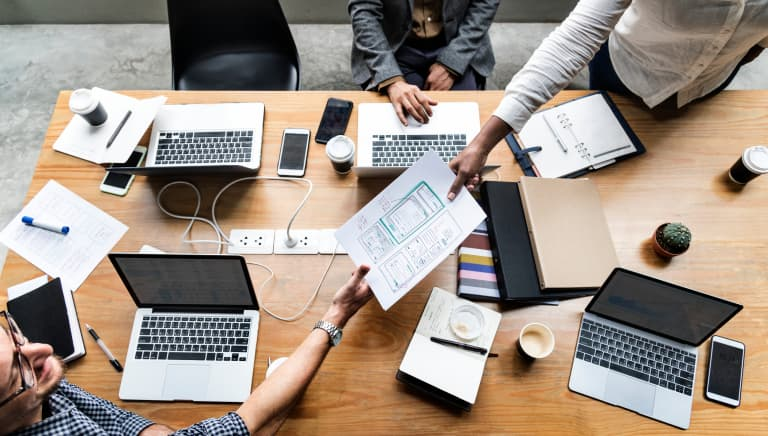
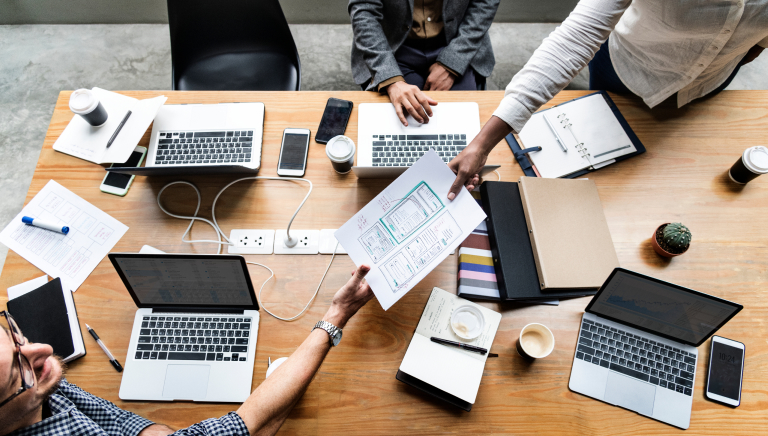
add markup

diff --git a/index.html b/index.html
@@ -549,90 +549,88 @@
       </section>
     </main>
     <footer class="footer" id="footer">
-      <div class="container">
-        <div class="footer-wrapper">
-          <div class="footer-content-wrapper">
-            <a class="logo footer-logo" href="./index.html"
-              ><span class="accent">Web</span>Studio</a
-            >
-            <p class="footer-slogan">
-              Increase the flow of customers and sales for your business with
-              digital marketing & growth solutions.
-            </p>
-          </div>
+      <div class="container footer-container">
+        <div class="footer-content-wrapper">
+          <a class="logo footer-logo" href="./index.html"
+            ><span class="accent">Web</span>Studio</a
+          >
+          <p class="footer-slogan">
+            Increase the flow of customers and sales for your business with
+            digital marketing & growth solutions.
+          </p>
+        </div>
 
-          <div class="footer-socials-wrapper">
-            <p class="footer-socials-caption">Social media</p>
-            <ul class="footer-socials">
-              <li class="footer-socials-item">
-                <a
-                  class="footer-socials-link"
-                  href="https://instagram.com"
-                  target="_blank"
-                  rel="noopener noreferrer"
-                >
-                  <svg class="footer-socials-icon" width="24" height="24">
-                    <use href="./images/icons.svg#instagram"></use>
-                  </svg>
-                </a>
-              </li>
-              <li class="footer-socials-item">
-                <a
-                  class="footer-socials-link"
-                  href="https://twitter.com"
-                  target="_blank"
-                  rel="noopener noreferrer"
-                >
-                  <svg class="footer-socials-icon" width="24" height="24">
-                    <use href="./images/icons.svg#twitter"></use>
-                  </svg>
-                </a>
-              </li>
-              <li class="footer-socials-item">
-                <a
-                  class="footer-socials-link"
-                  href="https://facebook.com"
-                  target="_blank"
-                  rel="noopener noreferrer"
-                >
-                  <svg class="footer-socials-icon" width="24" height="24">
-                    <use href="./images/icons.svg#facebook"></use>
-                  </svg>
-                </a>
-              </li>
-              <li class="footer-socials-item">
-                <a
-                  class="footer-socials-link"
-                  href="https://linkedin.com"
-                  target="_blank"
-                  rel="noopener noreferrer"
-                >
-                  <svg class="footer-socials-icon" width="24" height="24">
-                    <use href="./images/icons.svg#linkedin"></use>
-                  </svg>
-                </a>
-              </li>
-            </ul>
-          </div>
-
-          <div class="footer-subscribe">
-            <p class="footer-subscribe-caption">Subscribe</p>
-            <form class="footer-form" name="subscription">
-              <input
-                class="footer-form-input"
-                type="email"
-                name="user_subscription"
-                placeholder="E-mail"
-                aria-label="email"
-              />
-              <button class="btn btn-filled btn-footer" type="submit">
-                Subscribe
-                <svg class="footer-subscribe-icon" width="24" height="24">
-                  <use href="./images/icons.svg#send"></use>
+        <div class="footer-socials-wrapper">
+          <p class="footer-socials-caption">Social media</p>
+          <ul class="footer-socials">
+            <li class="footer-socials-item">
+              <a
+                class="footer-socials-link"
+                href="https://instagram.com"
+                target="_blank"
+                rel="noopener noreferrer"
+              >
+                <svg class="footer-socials-icon" width="24" height="24">
+                  <use href="./images/icons.svg#instagram"></use>
                 </svg>
-              </button>
-            </form>
-          </div>
+              </a>
+            </li>
+            <li class="footer-socials-item">
+              <a
+                class="footer-socials-link"
+                href="https://twitter.com"
+                target="_blank"
+                rel="noopener noreferrer"
+              >
+                <svg class="footer-socials-icon" width="24" height="24">
+                  <use href="./images/icons.svg#twitter"></use>
+                </svg>
+              </a>
+            </li>
+            <li class="footer-socials-item">
+              <a
+                class="footer-socials-link"
+                href="https://facebook.com"
+                target="_blank"
+                rel="noopener noreferrer"
+              >
+                <svg class="footer-socials-icon" width="24" height="24">
+                  <use href="./images/icons.svg#facebook"></use>
+                </svg>
+              </a>
+            </li>
+            <li class="footer-socials-item">
+              <a
+                class="footer-socials-link"
+                href="https://linkedin.com"
+                target="_blank"
+                rel="noopener noreferrer"
+              >
+                <svg class="footer-socials-icon" width="24" height="24">
+                  <use href="./images/icons.svg#linkedin"></use>
+                </svg>
+              </a>
+            </li>
+          </ul>
+        </div>
+
+        <div class="footer-subscribe">
+          <p class="footer-subscribe-caption">Subscribe</p>
+          <form class="footer-form" name="subscription">
+            <input
+              class="footer-form-input"
+              type="email"
+              name="user_subscription"
+              placeholder="E-mail"
+              aria-label="email"
+            />
+            <button class="btn btn-filled btn-footer" type="submit">
+              Subscribe
+              <svg class="footer-subscribe-icon" width="24" height="24">
+                <use href="./images/icons.svg#send"></use>
+              </svg>
+            </button>
+          </form>
         </div>
       </div>
     </footer>

diff --git a/css/footer.css b/css/footer.css
@@ -9,9 +9,9 @@
   }
 }
 
-.footer-wrapper {
+.footer-container {
   display: flex;
-  flex-direction: row;
+  flex-direction: column;
   flex-wrap: wrap;
   justify-content: center;
 
@@ -19,14 +19,15 @@
 }
 
 @media only screen and (min-width: 768px) {
-  .footer-wrapper {
+  .footer-container {
     flex-direction: row;
-    gap: 24px;
+    gap: 72px;
   }
 }
 
 .footer-content-wrapper {
-  text-align: center;
+  display: block;
+  text-align: left;
   justify-content: center;
   max-width: 264px;
   /* margin-right: 120px; */
@@ -59,7 +60,7 @@
 .footer-socials {
   display: flex;
   align-items: center;
-  justify-content: flex-start;
+  justify-content: center;
   flex-direction: row;
   gap: 16px;
 }
@@ -97,6 +98,12 @@
 
 .footer-subscribe {
   /* margin-left: auto; */
+}
+
+@media only screen and (min-width: 1158px) {
+  .footer-subscribe {
+    margin-left: auto;
+  }
 }
 
 .footer-subscribe-caption {
@@ -153,6 +160,7 @@
 
 .btn-footer {
   display: flex;
+  flex-direction: row;
   align-items: center;
 
   max-width: 165px;

diff --git a/css/hero.css b/css/hero.css
@@ -25,12 +25,34 @@
 @media only screen and (min-width: 768px) {
   .hero {
     padding: 112px 0;
+
+    background-image:
+      linear-gradient(
+        180deg,
+        rgba(46, 47, 66, 0.7) 0%,
+        rgba(46, 47, 66, 0.7) 100%
+      ),
+      image-set(
+        url("../images/hero/hero-bg_tab.jpg") 1x,
+        url("../images/hero/hero-bg_tab@2x.jpg") 2x
+      );
   }
 }
 
 @media only screen and (min-width: 1158px) {
   .hero {
     padding: 188px 0;
+
+    background-image:
+      linear-gradient(
+        180deg,
+        rgba(46, 47, 66, 0.7) 0%,
+        rgba(46, 47, 66, 0.7) 100%
+      ),
+      image-set(
+        url("../images/hero/hero-bg_desk.jpg") 1x,
+        url("../images/hero/hero-bg_desk@2x.jpg") 2x
+      );
   }
 }
 
